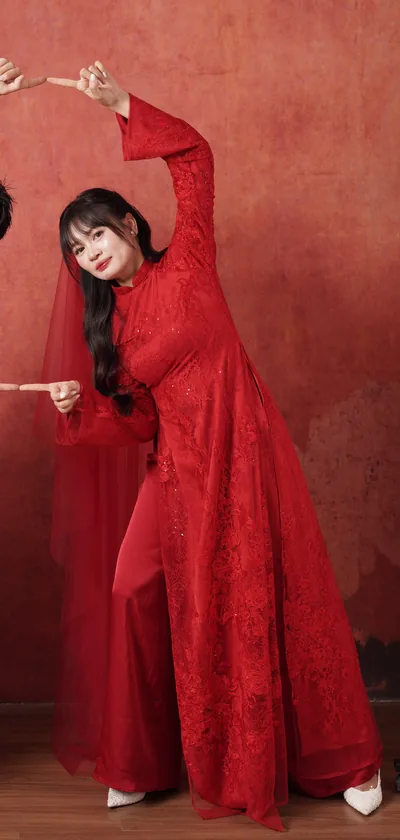
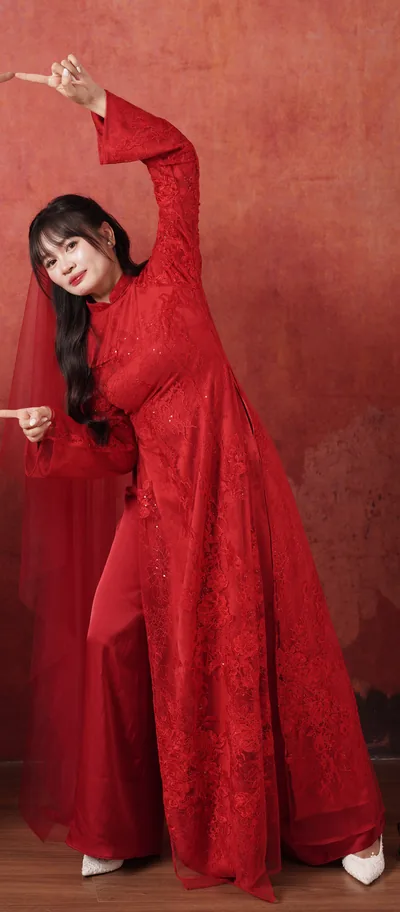
Move the puzzle cut right so it clears the groom's head
The left piece can now be wider than the right one, so the cut sits
between the couple without cropping the groom's side of the photo.

diff --git a/src/main.js b/src/main.js
@@ -153,10 +153,12 @@ function initHero() {
 /* ---------- Gallery + Puzzle ---------- */
 
 // Tai ghép nằm giữa mép mảnh. Mảnh càng cao (ratio = cao/rộng) thì tai càng ngắn theo tỉ lệ để không bị kéo dài.
-function puzzleClips(ratio) {
+// Mảnh trái rộng gấp `left` lần mảnh phải, nên tai ghép tính lại theo bề ngang của nó.
+function puzzleClips(ratio, left = 1) {
   const k = 1 / ratio;
   const y = v => (0.5 + (v - 0.5) * k).toFixed(4);
-  return `<clipPath id="pz-tab" clipPathUnits="objectBoundingBox"><path d="M0,0 H0.82 V${y(0.35)} C0.9,${y(0.27)} 1,${y(0.37)} 1,0.5 C1,${y(0.63)} 0.9,${y(0.73)} 0.82,${y(0.65)} V1 H0 Z"/></clipPath>
+  const x = v => (1 - (1 - v) / left).toFixed(4);
+  return `<clipPath id="pz-tab" clipPathUnits="objectBoundingBox"><path d="M0,0 H${x(0.82)} V${y(0.35)} C${x(0.9)},${y(0.27)} 1,${y(0.37)} 1,0.5 C1,${y(0.63)} ${x(0.9)},${y(0.73)} ${x(0.82)},${y(0.65)} V1 H0 Z"/></clipPath>
         <clipPath id="pz-notch" clipPathUnits="objectBoundingBox"><path d="M0,0 H1 V1 H0 V${y(0.65)} C0.08,${y(0.73)} 0.18,${y(0.63)} 0.18,0.5 C0.18,${y(0.37)} 0.08,${y(0.27)} 0,${y(0.35)} Z"/></clipPath>`;
 }
 
@@ -171,13 +173,13 @@ function galleryHtml() {
       </figure>`,
     )
     .join('');
-  const puzzle = `<div class="puzzle__wrap" style="--pr:${p.ratio}">
+  const puzzle = `<div class="puzzle__wrap" style="--pr:${p.ratio};--pl:${p.left ?? 1}">
       <p class="puzzle__title">${esc(p.title)}</p>
       <svg class="puzzle__defs" aria-hidden="true"><defs>
-        ${puzzleClips(p.ratio)}
+        ${puzzleClips(p.ratio, p.left)}
       </defs></svg>
       <div class="puzzle__board">
-        <figure class="puzzle__slot" style="clip-path:url(#pz-tab)"><img src="${url(p.pieces[0].src)}" alt="${esc(p.pieces[0].alt)}" width="400" height="${Math.round(400 * p.ratio)}" draggable="false"></figure>
+        <figure class="puzzle__slot" style="clip-path:url(#pz-tab)"><img src="${url(p.pieces[0].src)}" alt="${esc(p.pieces[0].alt)}" width="${Math.round(400 * (p.left ?? 1))}" height="${Math.round(400 * p.ratio)}" draggable="false"></figure>
         <div class="puzzle__piece" style="clip-path:url(#pz-notch);--fx:0.52;--fy:${(0.2 / p.ratio).toFixed(3)}" role="button" tabindex="0" aria-disabled="false"
           aria-label="${esc(p.pieces[1].alt)} — kéo hoặc dùng phím mũi tên để ghép vào mảnh bên trái"><img src="${url(p.pieces[1].src)}" alt="${esc(p.pieces[1].alt)}" width="400" height="${Math.round(400 * p.ratio)}" draggable="false"></div>
       </div>

diff --git a/src/style.css b/src/style.css
@@ -1738,6 +1738,7 @@ a {
 }
 .puzzle__wrap {
   --pr: 1;
+  --pl: 1; /* bề ngang mảnh trái so với mảnh phải */
   /* --pr: cao/rộng của mỗi mảnh (puzzle.ratio). Mảnh dọc thì thu hẹp lại để không quá cao. */
   --pw: calc(clamp(112px, 34vw, 240px) * min(1, 1.6 / var(--pr)));
   align-items: center;
@@ -1757,7 +1758,7 @@ a {
   position: absolute;
 }
 .puzzle__board {
-  width: calc(var(--pw) * (2 - 0.18 + 0.52));
+  width: calc(var(--pw) * (var(--pl) + 1 - 0.18 + 0.52));
   height: calc(var(--pw) * (var(--pr) * 1.12 + 0.12));
   position: relative;
 }
@@ -1781,9 +1782,11 @@ a {
 }
 .puzzle__slot {
   left: 0;
+  width: calc(var(--pw) * var(--pl));
+  aspect-ratio: var(--pl) / var(--pr);
 }
 .puzzle__piece {
-  left: calc(var(--pw) * 0.82);
+  left: calc(var(--pw) * (var(--pl) - 0.18));
   translate: calc(var(--fx, 0) * 100%) calc(var(--fy, 0) * 100%);
   cursor: grab;
   touch-action: none;

diff --git a/src/config.js b/src/config.js
@@ -50,8 +50,10 @@ export const puzzle = {
   prompt: 'Kéo mảnh bên phải cho khớp vào mảnh bên trái',
   done: 'Khớp rồi! Thông tin lễ cưới mở ngay bên dưới nha.',
   locked: 'Ghép hai mảnh ảnh phía trên để mở phần này nha',
-  // Một tấm ảnh cắt đôi ở giữa hai người (scripts/prepare-photos.py). ratio = cao/rộng của mỗi mảnh.
-  ratio: 2.1,
+  // Một tấm ảnh cắt đôi ở giữa hai người (scripts/prepare-photos.py in ra hai số này).
+  // ratio = cao/rộng của mảnh phải, left = bề ngang mảnh trái so với mảnh phải.
+  ratio: 2.281,
+  left: 1.253,
   pieces: [
     { src: 'photos/puzzle-left.webp', alt: 'Chú rể' },
     { src: 'photos/puzzle-right.webp', alt: 'Cô dâu' },

diff --git a/scripts/prepare-photos.py b/scripts/prepare-photos.py
@@ -50,23 +50,24 @@ STICKERS = [
 
 
 # Trò ghép hình: một tấm ảnh chụp hai người, cắt đôi ở chỗ giữa hai người.
-# (nguồn, tâm ngang của đường cắt 0..1, mép trên 0..1, mép dưới 0..1)
-# Mảnh trái cố định, mảnh phải kéo vào. Hai mảnh chồng lên nhau ở phần tai ghép (0.18 bề ngang mảnh),
-# nên vùng cắt rộng 1.82 lần một mảnh. PUZZLE_RATIO phải khớp với puzzle.ratio trong src/config.js.
-PUZZLE = ('anh-1.JPG', 0.52, 0.20, 0.94)
-PUZZLE_RATIO = 2.1  # cao / rộng của mỗi mảnh
-PUZZLE_W = 400
+# (nguồn, vị trí đường cắt 0..1, mép trái, mép phải, mép trên, mép dưới — đều tính theo tỉ lệ ảnh)
+# Mảnh trái cố định, mảnh phải kéo vào. Tai ghép của mảnh trái lấn sang phải 0.18 bề ngang mảnh phải.
+# Hai mảnh có thể rộng khác nhau để đường cắt nằm đúng chỗ mình muốn mà không phải cắt bớt người bên trái.
+# Chạy xong, chép hai số ratio và left in ra vào puzzle trong src/config.js.
+PUZZLE = ('anh-1.JPG', 0.515, 0.0, 0.995, 0.21, 0.94)
+PUZZLE_W = 400  # bề ngang mảnh phải (px)
 
 
-def puzzle_pieces(img, cx, top, bottom):
-    h = (bottom - top) * img.height
-    w = h / PUZZLE_RATIO
-    total = 1.82 * w
-    left = min(max(cx * img.width - total / 2, 0), img.width - total)
+def puzzle_pieces(img, cut, left, right, top, bottom):
+    x_cut, x0, x1 = cut * img.width, left * img.width, right * img.width
     y0, y1 = top * img.height, bottom * img.height
-    size = (PUZZLE_W, round(PUZZLE_W * PUZZLE_RATIO))
-    a = img.crop((round(left), round(y0), round(left + w), round(y1))).resize(size, Image.LANCZOS)
-    b = img.crop((round(left + total - w), round(y0), round(left + total), round(y1))).resize(size, Image.LANCZOS)
+    w = x1 - x_cut  # mảnh phải
+    wl = x_cut + 0.18 * w - x0  # mảnh trái, gồm cả tai ghép
+    ratio, lw = (y1 - y0) / w, wl / w
+    h = round(PUZZLE_W * ratio)
+    a = img.crop((round(x0), round(y0), round(x0 + wl), round(y1))).resize((round(PUZZLE_W * lw), h), Image.LANCZOS)
+    b = img.crop((round(x_cut), round(y0), round(x1), round(y1))).resize((PUZZLE_W, h), Image.LANCZOS)
+    print(f'puzzle: ratio: {ratio:.3f}, left: {lw:.3f}')
     return a, b
 
 
@@ -105,9 +106,9 @@ def main():
         img = ImageOps.exif_transpose(img).convert('RGB')
         cover(img, w, h, fx, fy, *zoom).save(dst / out, 'WEBP', quality=82, method=6)
         print('ok', out)
-    name, cx, top, bottom = PUZZLE
+    name, *box = PUZZLE
     img = ImageOps.exif_transpose(Image.open(src / name)).convert('RGB')
-    for piece, out in zip(puzzle_pieces(img, cx, top, bottom), ('puzzle-left.webp', 'puzzle-right.webp')):
+    for piece, out in zip(puzzle_pieces(img, *box), ('puzzle-left.webp', 'puzzle-right.webp')):
         piece.save(dst / out, 'WEBP', quality=82, method=6)
         print('ok', out)
     for name, out, fx, fy, *frac in STICKERS:
